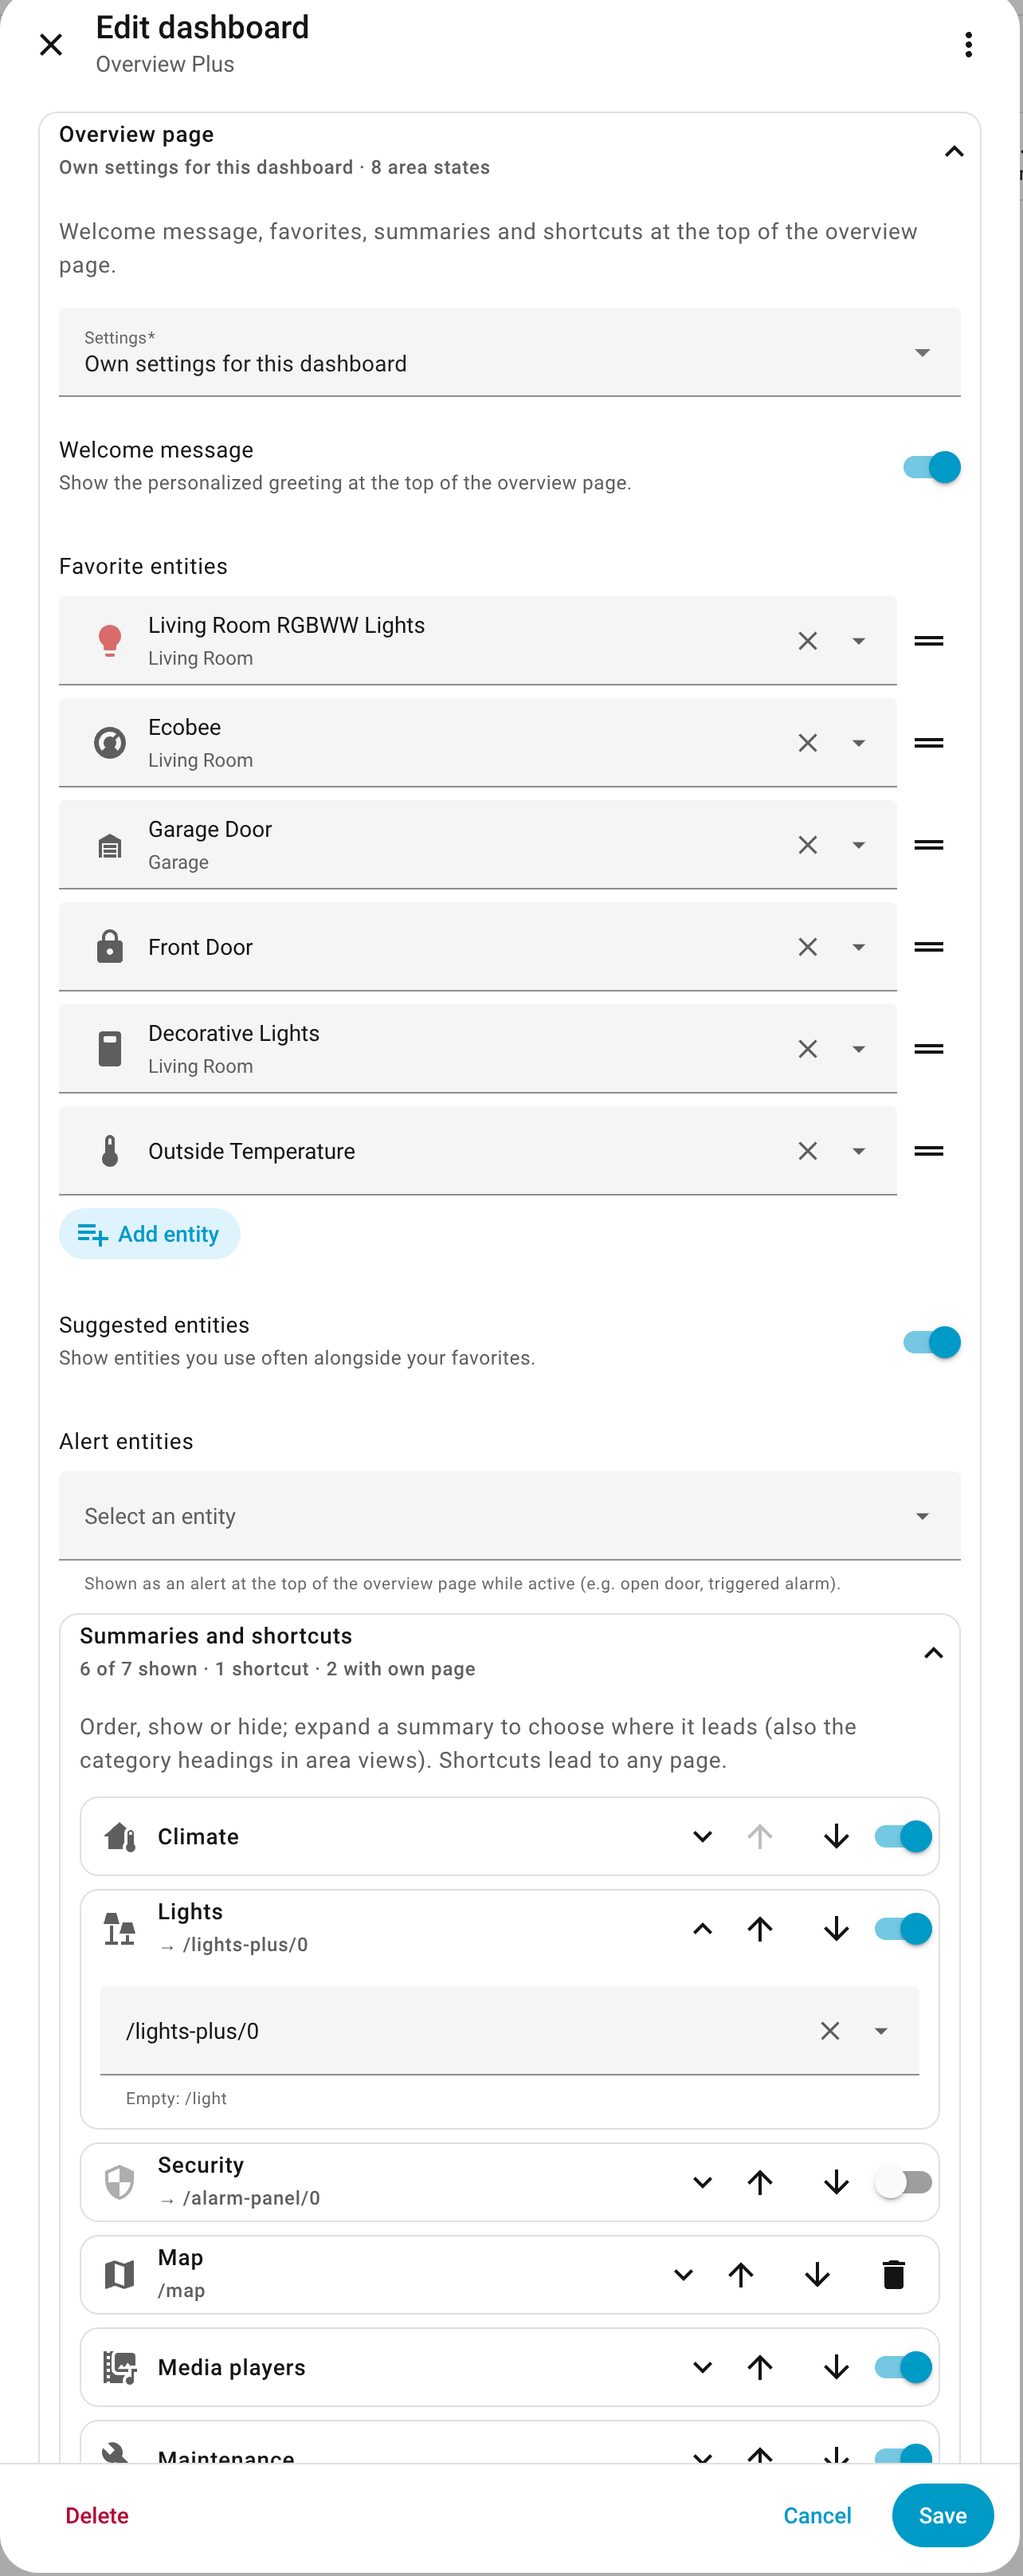
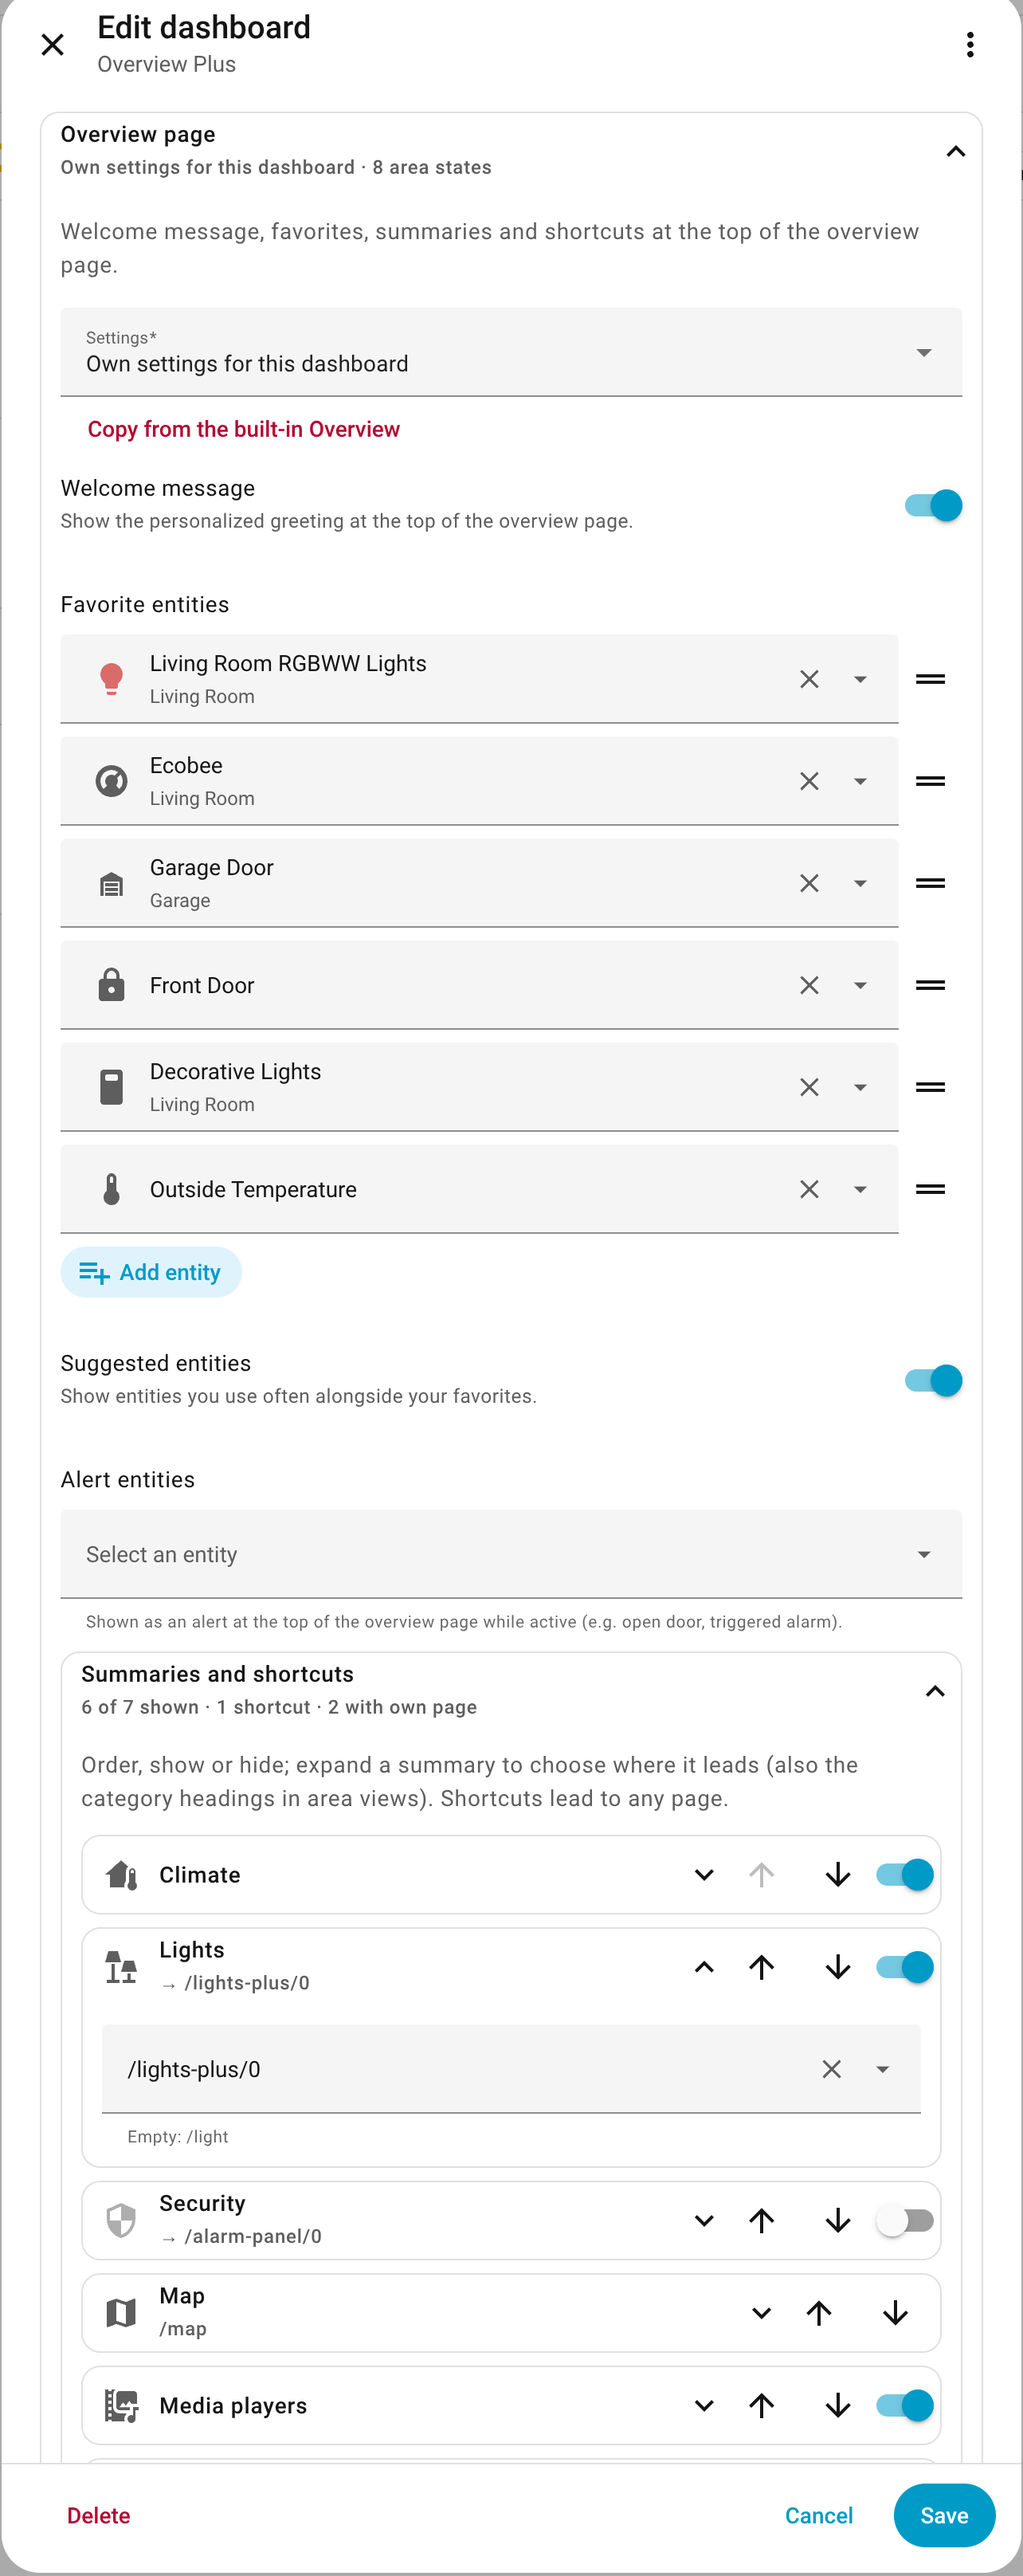
fix: safer delete and replace actions in the editor
- "Copy from the built-in Overview" sits right below the settings choice,
  in red, and replaces the own settings only after an inline confirmation.
- Shortcuts: the header keeps only the arrows; "Delete shortcut" is a red
  text button at the end of the expanded part.
- Sections and card rules: arrows on the left, red "Delete section" /
  "Delete rule" text button on the right.
- Own area states (YAML): red trash icon with distance to the arrows,
  deleted only after an inline confirmation.
- README editor screenshots updated.

diff --git a/src/editor/editor.js b/src/editor/editor.js
@@ -77,6 +77,13 @@ const STYLE = `
   .row.left { justify-content: flex-start; flex-wrap: wrap; gap: 8px; }
   .row.split { justify-content: space-between; flex-wrap: wrap; gap: 8px; }
   button.fallback.danger { color: var(--error-color, #db4437); }
+  .row.end { justify-content: flex-end; }
+  .row.split > .moves { display: flex; gap: 4px; }
+  .delete-icon { color: var(--error-color, #db4437); margin-left: 12px; }
+  .confirm { display: flex; flex-direction: column; gap: 8px; width: 100%; padding: 12px; box-sizing: border-box;
+    border-radius: var(--ha-border-radius-md, 12px); background: color-mix(in srgb, var(--error-color, #db4437) 8%, transparent); }
+  .confirm .row { justify-content: flex-end; gap: 8px; }
+  .item-row:has(.confirm) { padding: 0; border: none; }
   details.panel { border: 1px solid var(--divider-color); border-radius: var(--ha-border-radius-md, 12px); }
   details.panel > summary { padding: 12px; cursor: pointer; }
   details.panel > summary .secondary { display: block; color: var(--secondary-text-color); font-size: 0.9em; }
@@ -276,6 +283,40 @@ class OverviewPlusStrategyEditor extends HTMLElement {
       onClick();
     });
     return btn;
+  }
+
+  /**
+   * Inline confirmation: the content of `host` is replaced by a question with Cancel and
+   * a red confirm button until one of them is clicked (no dialog on top of HA's dialog).
+   * @param {HTMLElement} host
+   * @param {string} message
+   * @param {string} confirmLabel
+   * @param {() => void} onConfirm
+   */
+  _confirm(host, message, confirmLabel, onConfirm) {
+    const previous = Array.from(host.childNodes);
+    const box = document.createElement("div");
+    box.className = "confirm";
+    const text = document.createElement("span");
+    text.className = "confirm-text";
+    text.textContent = message;
+    const buttons = document.createElement("div");
+    buttons.className = "row";
+    buttons.append(
+      this._button(this._t("editor_cancel"), () => host.replaceChildren(...previous), "plain"),
+      this._button(confirmLabel, onConfirm, "filled", "danger")
+    );
+    box.append(text, buttons);
+    host.replaceChildren(box);
+  }
+
+  /**
+   * Red text button for removing the item a block belongs to, on the right of its row.
+   * @param {string} labelKey
+   * @param {() => void} onClick
+   */
+  _deleteButton(labelKey, onClick) {
+    return this._button(this._t(labelKey), onClick, "plain", "danger");
   }
 
   /**
@@ -593,6 +634,15 @@ class OverviewPlusStrategyEditor extends HTMLElement {
       return;
     }
 
+    // Replacing the own settings with those of the built-in Overview: next to the choice
+    // of settings, red, and only after confirming
+    const copyRow = document.createElement("div");
+    copyRow.className = "row left copy-home";
+    copyRow.append(this._button(this._t("editor_copy_home"), () => {
+      this._confirm(copyRow, this._t("editor_copy_home_confirm"), this._t("editor_replace"), () => this._copyHome());
+    }, "plain", "danger"));
+    block.append(copyRow);
+
     block.append(
       this._haForm(
         [
@@ -626,8 +676,7 @@ class OverviewPlusStrategyEditor extends HTMLElement {
         this._openShortcuts.add(home.items.length - 1);
         this._renderHomeItems(list);
         // nothing to emit yet: a shortcut without path is not saved
-      }),
-      this._button(this._t("editor_copy_home"), () => this._copyHome(), "plain")
+      })
     );
     summaries.body.append(actions);
     this._renderIndicatorBlock(block);
@@ -690,12 +739,16 @@ class OverviewPlusStrategyEditor extends HTMLElement {
           this._t("editor_indicator_custom");
         if (own.entity && own.preset) label.textContent += ` · ${[].concat(own.entity).join(", ")}`;
         const icon = this._indicatorIcon({ .../** @type {any} */ (INDICATOR_PRESETS)[own.preset], ...own });
-        row.append(icon, label, ...move,
-          this._iconButton(ICON.delete, this._t("editor_delete_indicator"), () => {
+        // Own states can only be set up again in YAML: deleting asks first
+        const remove = this._iconButton(ICON.delete, this._t("editor_delete_indicator"), () => {
+          this._confirm(row, this._t("editor_delete_indicator_confirm", { name: label.textContent || "" }), this._t("editor_delete"), () => {
             items.splice(index, 1);
             rerender();
             this._emit();
-          }));
+          });
+        });
+        remove.classList.add("delete-icon");
+        row.append(icon, label, ...move, remove);
         list.append(row);
         return;
       }
@@ -870,15 +923,7 @@ class OverviewPlusStrategyEditor extends HTMLElement {
       const leading = /** @type {any} */ (document.createElement("ha-icon"));
       leading.icon = item.icon || "mdi:link";
       leading.className = "summary-icon";
-      const controls = [
-        ...moveButtons(index),
-        this._iconButton(ICON.delete, this._t("editor_delete_shortcut"), () => {
-          items.splice(index, 1);
-          this._openShortcuts = new Set([...this._openShortcuts].filter((i) => i !== index).map((i) => (i > index ? i - 1 : i)));
-          rerender();
-          this._emit();
-        }),
-      ];
+      const controls = moveButtons(index);
       const panel = this._panel(header(), item.label ? item.path || "" : "", this._openShortcuts.has(index), (open) => {
         if (open) this._openShortcuts.add(index);
         else this._openShortcuts.delete(index);
@@ -904,7 +949,15 @@ class OverviewPlusStrategyEditor extends HTMLElement {
           this._emit();
         }
       );
-      panel.body.append(form);
+      const actions = document.createElement("div");
+      actions.className = "row end";
+      actions.append(this._deleteButton("editor_delete_shortcut", () => {
+        items.splice(index, 1);
+        this._openShortcuts = new Set([...this._openShortcuts].filter((i) => i !== index).map((i) => (i > index ? i - 1 : i)));
+        rerender();
+        this._emit();
+      }));
+      panel.body.append(form, actions);
       list.append(panel.root);
     });
   }
@@ -1083,20 +1136,23 @@ class OverviewPlusStrategyEditor extends HTMLElement {
         this._emit();
       });
 
+      // Order on the left, deleting on the right in red
       const row = document.createElement("div");
-      row.className = "row icons";
-      row.append(
+      row.className = "row split";
+      const moves = document.createElement("div");
+      moves.className = "moves";
+      moves.append(
         this._iconButton(ICON.up, this._t("editor_move_up"), () => this._move(entry, index, -1, rerender), index === 0),
-        this._iconButton(ICON.down, this._t("editor_move_down"), () => this._move(entry, index, 1, rerender), index === entry.sections.length - 1),
-        this._iconButton(ICON.delete, this._t("editor_delete_section"), () => {
-          entry.sections.splice(index, 1);
-          const next = new Set([...open].filter((i) => i !== index).map((i) => (i > index ? i - 1 : i)));
-          this._openSections.set(entry.area, next);
-          rerender();
-          refreshAreaHeader();
-          this._emit();
-        })
+        this._iconButton(ICON.down, this._t("editor_move_down"), () => this._move(entry, index, 1, rerender), index === entry.sections.length - 1)
       );
+      row.append(moves, this._deleteButton("editor_delete_section", () => {
+        entry.sections.splice(index, 1);
+        const next = new Set([...open].filter((i) => i !== index).map((i) => (i > index ? i - 1 : i)));
+        this._openSections.set(entry.area, next);
+        rerender();
+        refreshAreaHeader();
+        this._emit();
+      }));
       panel.body.append(form, row);
       container.appendChild(panel.root);
     });
@@ -1170,17 +1226,19 @@ class OverviewPlusStrategyEditor extends HTMLElement {
         this._emit();
       };
       const row = document.createElement("div");
-      row.className = "row icons";
-      row.append(
+      row.className = "row split";
+      const moves = document.createElement("div");
+      moves.className = "moves";
+      moves.append(
         this._iconButton(ICON.up, this._t("editor_move_up"), () => swap(-1), index === 0),
-        this._iconButton(ICON.down, this._t("editor_move_down"), () => swap(1), index === rules.length - 1),
-        this._iconButton(ICON.delete, this._t("editor_delete_rule"), () => {
-          rules.splice(index, 1);
-          this._openRules = new Set([...this._openRules].filter((i) => i !== index).map((i) => (i > index ? i - 1 : i)));
-          this._renderRules();
-          this._emit();
-        })
+        this._iconButton(ICON.down, this._t("editor_move_down"), () => swap(1), index === rules.length - 1)
       );
+      row.append(moves, this._deleteButton("editor_delete_rule", () => {
+        rules.splice(index, 1);
+        this._openRules = new Set([...this._openRules].filter((i) => i !== index).map((i) => (i > index ? i - 1 : i)));
+        this._renderRules();
+        this._emit();
+      }));
       panel.body.append(form, row);
       container.appendChild(panel.root);
     });

diff --git a/test/editor.test.js b/test/editor.test.js
@@ -493,3 +493,75 @@ test("removing an area layout is a red action on the far side, away from Add sec
   assert.equal(row.firstElementChild.textContent, "Add section");
   assert.equal(row.lastElementChild, remove);
 });
+
+test("copying the built-in settings sits under the settings choice, red, and asks first", async () => {
+  const { editor, last, events } = setup({ type: "custom:overview-plus", load_home_settings: false, favorite_entities: ["light.lamp"] });
+  let calls = 0;
+  editor.hass = { ...editor.hass, callWS: async ({ key }) => { calls++; return { value: key === "home" ? { favorite_entities: ["light.ceiling"] } : {} }; } };
+  const copy = buttons(root(editor), "Copy from the built-in Overview")[0];
+  assert.ok(copy.classList.contains("danger"));
+  const row = copy.closest(".copy-home");
+  assert.equal(row.previousElementSibling, formWith(root(editor), "h_source"), "right below the settings choice");
+  assert.equal(buttons(root(editor), "Add shortcut")[0].parentElement.querySelector(".copy-home"), null);
+
+  click(copy);
+  assert.equal(calls, 0, "nothing replaced before confirming");
+  assert.match(row.textContent, /Replace your own favorites/);
+  click(buttons(row, "Cancel")[0]);
+  assert.ok(buttons(row, "Copy from the built-in Overview")[0], "cancel restores the button");
+  const before = events.length;
+
+  click(buttons(row, "Copy from the built-in Overview")[0]);
+  click(buttons(row, "Replace")[0]);
+  await new Promise((r) => setTimeout(r, 10));
+  assert.equal(calls, 2);
+  assert.ok(events.length > before);
+  assert.deepEqual(last().favorite_entities, ["light.ceiling"]);
+});
+
+test("shortcuts: only arrows in the header, deleting is a red button in the expanded part", () => {
+  const { editor, last } = setup({
+    type: "custom:overview-plus", load_home_settings: false,
+    shortcuts: [{ type: "custom", path: "/a", label: "A" }, { type: "custom", path: "/b", label: "B" }],
+  });
+  const panel = [...root(editor).querySelectorAll(".home-items > details")].find((p) => p.querySelector(":scope > summary").textContent.includes("A"));
+  // the header controls (in the fallback: their own row) are the arrows only
+  const moves = buttons(panel, "Move down")[0].parentElement;
+  assert.equal(buttons(moves, "Delete shortcut").length, 0);
+  assert.equal(moves.querySelectorAll("button").length, 2);
+  const remove = buttons(panel, "Delete shortcut")[0];
+  assert.ok(remove.classList.contains("danger"));
+  assert.equal(remove.parentElement, panel.querySelector(".panel-body").lastElementChild, "at the end of the expanded part");
+  click(remove);
+  assert.deepEqual(last().shortcuts.filter((s) => s.type === "custom").map((s) => s.label), ["B"]);
+});
+
+test("sections and rules: arrows on the left, red delete button on the right", () => {
+  const { editor } = setup({ ...TWO_AREAS, card_rules: [{ match: { domain: "light" }, card: { type: "tile" } }] });
+  for (const [scope, label] of [[areaPanel(editor, "Ground › Living room"), "Delete section"], [root(editor).querySelector(".general"), "Delete rule"]]) {
+    const remove = buttons(scope, label)[0];
+    assert.ok(remove.classList.contains("danger"), label);
+    const row = remove.parentElement;
+    assert.ok(row.classList.contains("split"));
+    assert.equal(row.lastElementChild, remove);
+    assert.ok(row.firstElementChild.classList.contains("moves"));
+    assert.ok(buttons(row.firstElementChild, "Move down").length === 1);
+  }
+});
+
+test("own area states: red delete with distance, only after confirming", () => {
+  const custom = { name: "Washer", entity: "sensor.washer", state: "running" };
+  const { editor, last, events } = setup({ type: "custom:overview-plus", area_indicators: [{ preset: "occupied" }, custom] });
+  const scope = root(editor).querySelector(".indicator-items");
+  const remove = buttons(scope, "Delete state")[0];
+  assert.ok(remove.classList.contains("delete-icon"));
+  const row = remove.parentElement;
+  click(remove);
+  assert.equal(events.length, 0, "nothing deleted before confirming");
+  assert.match(row.textContent, /Delete "Washer"\?/);
+  click(buttons(row, "Cancel")[0]);
+  assert.ok(buttons(row, "Delete state")[0]);
+  click(buttons(row, "Delete state")[0]);
+  click(buttons(row, "Delete")[0]);
+  assert.deepEqual(last().area_indicators, [{ preset: "occupied" }]);
+});

diff --git a/src/i18n.js b/src/i18n.js
@@ -90,6 +90,11 @@ const STRINGS = {
     editor_one_state_on: "1 switched on",
     editor_n_states_on: "{n} switched on",
     editor_no_states: "None switched on",
+    editor_cancel: "Cancel",
+    editor_delete: "Delete",
+    editor_replace: "Replace",
+    editor_copy_home_confirm: "Replace your own favorites, summaries, shortcuts and alert entities with those of the built-in Overview?",
+    editor_delete_indicator_confirm: "Delete \"{name}\"? Own states can only be set up again in YAML.",
     editor_home: "Overview page",
     editor_home_help: "Welcome message, favorites, summaries and shortcuts at the top of the overview page.",
     editor_h_source: "Settings",
@@ -348,6 +353,11 @@ const STRINGS = {
     editor_one_state_on: "1 eingeschaltet",
     editor_n_states_on: "{n} eingeschaltet",
     editor_no_states: "Keiner eingeschaltet",
+    editor_cancel: "Abbrechen",
+    editor_delete: "Löschen",
+    editor_replace: "Ersetzen",
+    editor_copy_home_confirm: "Eigene Favoriten, Zusammenfassungen, Shortcuts und Warnungs-Entitäten durch die des eingebauten Overviews ersetzen?",
+    editor_delete_indicator_confirm: "„{name}“ löschen? Eigene Zustände lassen sich nur in YAML wieder anlegen.",
     editor_home: "Startseite",
     editor_home_help: "Begrüßung, Favoriten, Zusammenfassungen und Shortcuts oben auf der Startseite.",
     editor_h_source: "Einstellungen",

diff --git a/README.md b/README.md
@@ -48,12 +48,12 @@ parts, each with a short summary of what is set.
 
 <table>
 <tr>
-<td width="50%" valign="top"><b>Overview page</b> – favorites, summaries and shortcuts, own or those of the built-in Overview<br><br><img src="https://raw.githubusercontent.com/financelurker/ha-overview-plus/main/docs/images/editor-overview-page.png?v=2f50c95543" alt="Editor: overview page settings"></td>
-<td width="50%" valign="top"><b>Area layout</b> – badges, tile and sections, selected by label, integration and more<br><br><img src="https://raw.githubusercontent.com/financelurker/ha-overview-plus/main/docs/images/editor-area.png?v=422c71836a" alt="Editor: area layout with sections"></td>
+<td width="50%" valign="top"><b>Overview page</b> – favorites, summaries and shortcuts, own or those of the built-in Overview<br><br><img src="https://raw.githubusercontent.com/financelurker/ha-overview-plus/main/docs/images/editor-overview-page.png?v=d81f8714d2" alt="Editor: overview page settings"></td>
+<td width="50%" valign="top"><b>Area layout</b> – badges, tile and sections, selected by label, integration and more<br><br><img src="https://raw.githubusercontent.com/financelurker/ha-overview-plus/main/docs/images/editor-area.png?v=ea4db61136" alt="Editor: area layout with sections"></td>
 </tr>
 <tr>
-<td width="50%" valign="top"><b>Card rule</b> – replace a card and show another one in a popup on tap<br><br><img src="https://raw.githubusercontent.com/financelurker/ha-overview-plus/main/docs/images/editor-card-rule.png?v=a48dda084d" alt="Editor: card rule with popup"></td>
-<td width="50%" valign="top"><b>Summaries</b> – order, show or hide, and the page each one leads to: Home Assistant's own or a dashboard of yours<br><br><img src="https://raw.githubusercontent.com/financelurker/ha-overview-plus/main/docs/images/editor-summary-pages.png?v=3549513610" alt="Editor: pages of the summaries"></td>
+<td width="50%" valign="top"><b>Card rule</b> – replace a card and show another one in a popup on tap<br><br><img src="https://raw.githubusercontent.com/financelurker/ha-overview-plus/main/docs/images/editor-card-rule.png?v=ea3b760051" alt="Editor: card rule with popup"></td>
+<td width="50%" valign="top"><b>Summaries</b> – order, show or hide, and the page each one leads to: Home Assistant's own or a dashboard of yours<br><br><img src="https://raw.githubusercontent.com/financelurker/ha-overview-plus/main/docs/images/editor-summary-pages.png?v=a5669ad4ca" alt="Editor: pages of the summaries"></td>
 </tr>
 <tr>
 <td width="50%" valign="top"><b>Area states</b> – which states the area tiles show, their order, tile or chip, icon and color<br><br><img src="https://raw.githubusercontent.com/financelurker/ha-overview-plus/main/docs/images/editor-indicators.png?v=107427816f" alt="Editor: area states"></td>
